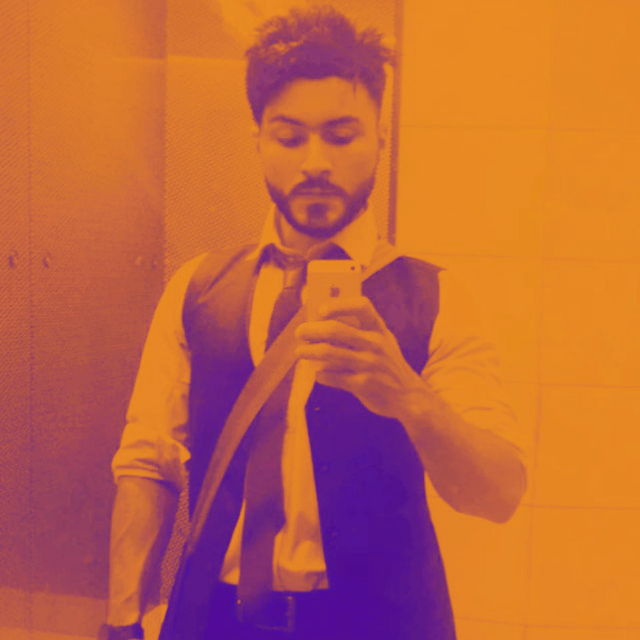
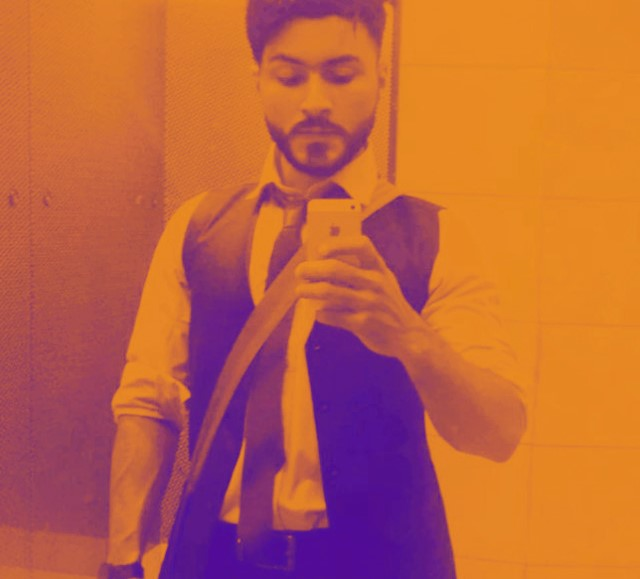
update

diff --git a/index.html b/index.html
@@ -1,7 +1,7 @@
 <!DOCTYPE html>
 <html>
 <head>
-<meta name="theme-color" content="#8EDB29">
+<meta name="theme-color" content="#DC7D2D">
 <meta name="viewport" content="width=device-width, initial-scale=1">
 <link rel="stylesheet" href="https://www.w3schools.com/w3css/4/w3.css">
 <link rel="stylesheet" href="https://fonts.googleapis.com/css?family=Raleway">
@@ -9,7 +9,7 @@
 </head>
 <body>
 
-<button class="tablink" onclick="openPage('about', this, '#8EDB29'); testmeta1()" id="defaultOpen">About Me</button>
+<button class="tablink" onclick="openPage('about', this, '#DC7D2D'); testmeta1()" id="defaultOpen">About Me</button>
 <button class="tablink" onclick="openPage('technical', this, '#002604'); testmeta2()">technical</button>
 <button class="tablink" onclick="openPage('projects', this, '#230026'); testmeta3()">projects</button>
 <button class="tablink" onclick="openPage('hobby', this, '#693505'); testmeta4()">hobbies</button>
@@ -71,7 +71,7 @@ function openPage(pageName,elmnt,color) {
 document.getElementById("defaultOpen").click();
 
 function testmeta1(){
-document.getElementsByTagName("META")[0].content = "#8EDB29";
+document.getElementsByTagName("META")[0].content = "#DC7D2D";
 }
 
 function testmeta2(){

diff --git a/style.css b/style.css
@@ -31,7 +31,7 @@ body, html {
   height: 100%;
 }
 
-#about {background-color: #8EDB29;background-image: url(img13.jpg);background-attachment: fixed;background-position: center;background-size: cover;}
+#about {background-color: #DC7D2D;background-image: url(img12.jpg);background-attachment: fixed;background-position: center;background-size: cover;}
 #technical {background-color: #002604;}
 #projects {background-color: #230026;}
 #hobby {background-color: #693505;}
@@ -105,5 +105,5 @@ div.fixed2 {
 }
 
 @media only screen and (min-width: 768px) {
-	#about {background-color: #8EDB29;background-image: url(img13a.jpg);background-attachment: fixed;background-position: center;background-size: cover;}
+	#about {background-color: #DC7D2D;background-image: url(img12a.jpg);background-attachment: fixed;background-position: center;background-size: cover;}
 }
